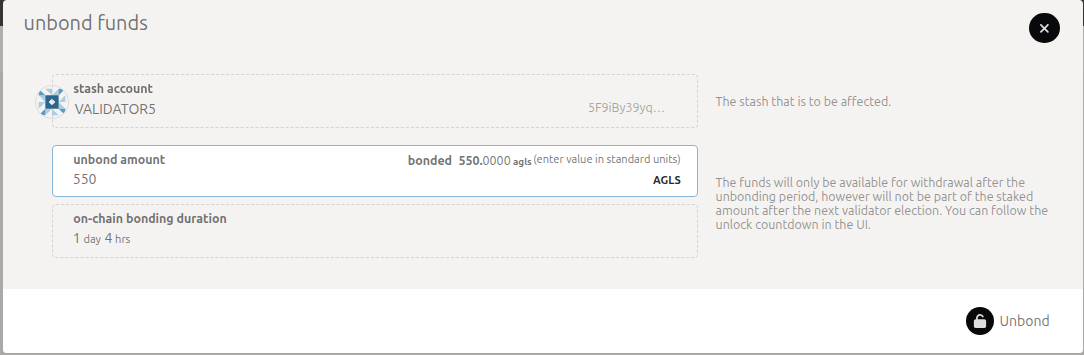
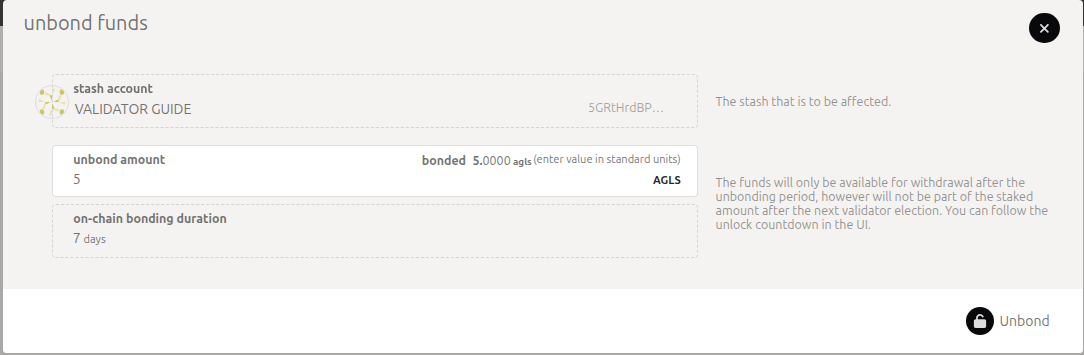
Update the validator guide for the spec-120 testnet
Use the v0.5.0 node image and the new genesis, follow the new chain's
timings (1-hour sessions, 6-hour eras, 7-day unbonding), and cover
rewards, nominations and slashing. Four screenshots retaken on the
new chain.

diff --git a/docs/nodes/run-a-validator-testnet.md b/docs/nodes/run-a-validator-testnet.md
@@ -13,15 +13,17 @@ How to join the Quip Network testnet as a validator, change your keys, and leave
 ## How validating works on Quip
 
 * Validators produce blocks and finalize them. Every validator key is a hybrid post-quantum key (a classical key plus FN-DSA-512), so the Polkadot.js portal ([portal.aglais.quip.network](https://portal.aglais.quip.network)) and the node have a few Quip-specific steps.
-* Joining is approved, not automatic: you bond AGLS (the testnet token), register your node's keys, and declare that you want to validate. The Quip Foundation then approves your account, usually within 24 hours, and makes a seat for you. You are elected at the next validator election and join the active set one session (10 minutes) later.
-* Sessions last 10 minutes and an era is 6 sessions (1 hour). After approval you are usually active within 10 to 20 minutes, or up to about 70 minutes if no new era is forced.
-* Unbonded AGLS stays locked for 28 eras (about 28 hours) before you can withdraw it.
-* The testnet pays no validator rewards yet, and nominating is switched off.
+* Joining is approved, not automatic: you bond AGLS (the testnet token), register your node's keys, and declare that you want to validate. The Quip Foundation then approves your account, usually within 24 hours, and makes a seat for you. You are elected at the next validator election and join the active set one session (1 hour) later.
+* Sessions last 1 hour and an era is 6 sessions (6 hours). After approval you are usually active within 1 to 2 hours, or up to about 7 hours if no new era is forced.
+* Unbonded AGLS stays locked for 28 eras (about 7 days) before you can withdraw it.
+* Active validators earn AGLS rewards every era, shared by era points, which they earn by producing blocks. Rewards are paid only when someone claims them (see [Claim your rewards](#claim-your-rewards)).
+* Other accounts can nominate you: they bond AGLS behind your stash, and their stake counts toward yours in the election.
+* Signing twice for the same slot or vote, which happens when two nodes run with the same keys, is reported automatically and can cost you part or all of your bond (a slash). The slash is applied 28 eras (about 7 days) after the offence.
 
 ## What you need
 
 * A Linux server that can run a Quip node around the clock, with port 30333/tcp open to inbound connections. Baseline: 4 CPU cores (x86_64), 8 GB of RAM, a 200 GB SSD and about 1 TB of network traffic a month. At today's activity a validator uses about 2 GB of RAM and well under one core, and its database grows by about 1.5 GB a day.
-* Docker, to run the Quip node software. The commands on this page use the image `registry.gitlab.com/quip.network/quip-validator/quip-network-node` with the tag `v0.4.0`.
+* Docker, to run the Quip node software. The commands on this page use the image `registry.gitlab.com/quip.network/quip-validator/quip-network-node` with the tag `v0.5.0`.
 * The testnet chain spec, [aglais-network.json](https://gitlab.com/quip.network/nodes.quip.network/-/raw/main/chain-specs/aglais-network.json). The Step 2 commands download it.
 * A shell with `curl` and `jq`.
 * A web browser for the Polkadot.js portal.
@@ -33,7 +35,7 @@ How to join the Quip Network testnet as a validator, change your keys, and leave
 
    ```sh
    docker run --rm --network none --log-driver none --entrypoint /usr/local/bin/quip-network-node \
-     registry.gitlab.com/quip.network/quip-validator/quip-network-node:v0.4.0 \
+     registry.gitlab.com/quip.network/quip-validator/quip-network-node:v0.5.0 \
      key generate --words 24 --output-type json | jq -r .secretPhrase
    ```
 
@@ -62,14 +64,14 @@ Leave **Settings → in-browser account creation** on "Do not allow local in-bro
    docker run -d --name quip-validator --restart unless-stopped --network host \
      -v "$HOME/quip-validator/data:/data" \
      -v "$HOME/quip-validator/chain-spec.json:/etc/quip/chain-spec.json:ro" \
-     registry.gitlab.com/quip.network/quip-validator/quip-network-node:v0.4.0 \
+     registry.gitlab.com/quip.network/quip-validator/quip-network-node:v0.5.0 \
      --chain=/etc/quip/chain-spec.json --base-path=/data --name=YOUR_NODE_NAME \
      --validator --unsafe-force-node-key-generation
    ```
 
    `--network host` keeps the node's RPC on the server's own 127.0.0.1, which Step 3 needs. Do not add `-p 9944:9944`, `--rpc-external` or `--unsafe-rpc-external`. The node keeps its database, network identity and session keys in `$HOME/quip-validator/data`, so keep that folder when you update or restart the container.
 2. Step 3 calls an unsafe RPC method, one that writes keys. The node accepts it only over 127.0.0.1, so send it only from the server itself, and never make your node's unsafe methods reachable from other machines. A public RPC that serves only safe methods is fine. If you run the [Run A Node](run-a-node-testnet.md) stack (node manager or docker compose), use [Session keys on the Run A Node stack](#session-keys-on-the-run-a-node-stack) instead of Step 3.2.
[2 lines of base64/hex data omitted]
 
    ```sh
    curl -s -H 'Content-Type: application/json' \
@@ -92,7 +94,7 @@ Leave **Settings → in-browser account creation** on "Do not allow local in-bro
 
    ```sh
    docker run --rm --network none --entrypoint /usr/local/bin/quip-network-node \
-     registry.gitlab.com/quip.network/quip-validator/quip-network-node:v0.4.0 \
+     registry.gitlab.com/quip.network/quip-validator/quip-network-node:v0.5.0 \
      key inspect --output-type json YOUR_ADDRESS | jq -r .accountId
    ```
 
@@ -145,10 +147,10 @@ The second node listens only on 127.0.0.1 and removes itself when stopped. `quip
 
 In the portal, open **Network → Staking → Accounts** and choose **+ Validator**.
 
-1. **Setup Validator 1/2**: pick your stash. The **value bonded** field starts with almost your whole balance: replace it with at least 5 and keep at least 1 AGLS unbonded, because later steps such as Stop, Unbond and Change session keys each cost a small fee that bonded funds cannot pay. Pick either **Stash account** option as the payment destination (there are no rewards yet). The **on-chain bonding duration** shows 1 day 4 hrs: that is how long funds stay locked after you unbond. Choose **next**.
+1. **Setup Validator 1/2**: pick your stash. The **value bonded** field starts with almost your whole balance: replace it with at least 5 and keep at least 1 AGLS unbonded, because later steps such as Stop, Unbond and Change session keys each cost a small fee that bonded funds cannot pay. For the payment destination, **Stash account (increase the amount at stake)** adds your rewards to your bond, and **Stash account (do not increase the amount at stake)** keeps them free to spend. The **on-chain bonding duration** shows 7 days: that is how long funds stay locked after you unbond. Choose **next**.
 
-   <figure><a href="../.gitbook/assets/run-a-validator-setup-bond.png"><img src="../.gitbook/assets/run-a-validator-setup-bond.png" alt="Setup Validator 1/2 with a stash selected, 500 AGLS in value bonded, an on-chain bonding duration of 1 day 4 hrs and Stash account as the payment destination" width="1084" height="438" loading="lazy" decoding="async"></a></figure>
-2. **Setup Validator 2/2**: paste the keys into **Keys from rotateKeysWithOwner** first, then the proof into **Session key ownership proof**. Changing the keys afterward empties the proof field, so paste the proof last. Leave **allows new nominations** as it is: nominating is switched off. Set your commission, then choose **Bond & Validate** and sign with your stash.
+   <figure><a href="../.gitbook/assets/run-a-validator-setup-bond.png"><img src="../.gitbook/assets/run-a-validator-setup-bond.png" alt="Setup Validator 1/2 with a stash selected, 5 AGLS in value bonded, an on-chain bonding duration of 7 days and Stash account as the payment destination" width="1084" height="438" loading="lazy" decoding="async"></a></figure>
+2. **Setup Validator 2/2**: paste the keys into **Keys from rotateKeysWithOwner** first, then the proof into **Session key ownership proof**. Changing the keys afterward empties the proof field, so paste the proof last. **Allows new nominations** lets other accounts back you with their stake; leave it on unless you want to refuse new nominators. Set your commission, the share of rewards you keep before the rest is split with your nominators, then choose **Bond & Validate** and sign with your stash.
 
    <figure><a href="../.gitbook/assets/run-a-validator-setup-keys-and-proof.png"><img src="../.gitbook/assets/run-a-validator-setup-keys-and-proof.png" alt="Setup Validator 2/2 with the keys in Keys from rotateKeysWithOwner, the proof in Session key ownership proof, the commission and allows new nominations fields, and the Bond and Validate button" width="1084" height="434" loading="lazy" decoding="async"></a></figure>
 
@@ -177,7 +179,16 @@ After the vote, you are included in the next election.
 * **Network → Explorer** shows blocks authored by your address.
 * Your node's log shows lines like "Prepared block for proposing" and "Pre-sealed block". Such a line means your node produced a block; Explorer shows whether it stayed in the chain.
 
-You are usually active 10 to 20 minutes after the Foundation's vote. Keep your node online (see [If your node goes offline](#if-your-node-goes-offline)).
+You are usually active 1 to 2 hours after the Foundation's vote. Keep your node online (see [If your node goes offline](#if-your-node-goes-offline)).
+
+## Claim your rewards
+
+Each era's rewards can be claimed once the era has ended, and for 84 eras (21 days) after that. Older rewards can no longer be claimed.
+
+1. Open **Network → Staking → Payouts**. With your stash imported, it lists the eras with unclaimed rewards for it.
+2. Choose **Payout all** and sign. Any account can send the claim and pay its small fee, and one claim pays you and your nominators.
+
+The rewards go to the payment destination you chose in Step 4.
 
 ## Change your session keys or move to a new server
 
@@ -186,8 +197,8 @@ You are usually active 10 to 20 minutes after the Foundation's vote. Keep your n
 3. On **Network → Staking → Accounts**, open your stash's menu (⋮) and choose **Change session keys**. In the **Set Session Key** dialog, paste the new keys first, then the proof, choose **Set Session Key** and sign with your stash.
 
    <figure><a href="../.gitbook/assets/run-a-validator-set-session-key.png"><img src="../.gitbook/assets/run-a-validator-set-session-key.png" alt="The Set Session Key dialog for a stash, with the new keys in Keys from rotateKeysWithOwner, the proof in Session key ownership proof and the Set Session Key button" width="1084" height="361" loading="lazy" decoding="async"></a></figure>
-4. Wait for two session changes (10 to 20 minutes). The new keys are queued at the first and take over at the second. The new node's log then shows "Pre-sealed block" lines, and the old node stops producing blocks.
-5. Stop the old node. Never run two nodes with the same keys.
+4. Wait for two session changes (1 to 2 hours). The new keys are queued at the first and take over at the second. The new node's log then shows "Pre-sealed block" lines, and the old node stops producing blocks.
+5. Stop the old node. Never run two nodes with the same keys: if both sign, your bond can be slashed.
 
 The old node's last block comes just before the session change, and the new node's first block just after it.
 
@@ -203,43 +214,41 @@ The old node's last block comes just before the session change, and the new node
 
 To restart your server, update its operating system or take the node down for any other planned work, leave the active set first. Downtime after you have left does not count as going offline.
 
-1. On **Network → Staking → Accounts**, choose **Stop** on your stash. You leave the active set when the next era starts, within about 70 minutes. Keep your node running until **Staking → Overview** no longer lists you as active.
+1. On **Network → Staking → Accounts**, choose **Stop** on your stash. You leave the active set when the next era starts, within about 7 hours. Keep your node running until **Staking → Overview** no longer lists you as active.
 2. Do the maintenance.
 3. Start the node and wait until it is fully synced (see [Step 2](#step-2-run-your-validator-node)).
-4. On **Network → Staking → Accounts**, choose **Validate** on your stash, set your commission and sign. Your approval and your bond stay in place, so you are a candidate at the next election and active again within about 70 minutes.
+4. On **Network → Staking → Accounts**, choose **Validate** on your stash, set your commission and sign. Your approval and your bond stay in place, so you are a candidate at the next election and active again within about 7 hours.
 
 To move to a new server without a break, see [Change your session keys or move to a new server](#change-your-session-keys-or-move-to-a-new-server) instead.
 
 ## Leaving
 
-1. On **Network → Staking → Accounts**, choose **Stop** on your stash. You leave the active set when the next era starts. If you choose Stop during an era's last 10 minutes, the next era's validators are already chosen, so you stay one more era (up to about 70 minutes). Keep your node running until **Staking → Overview** no longer lists you as active.
+1. On **Network → Staking → Accounts**, choose **Stop** on your stash. You leave the active set when the next era starts. If you choose Stop during an era's last hour, the next era's validators are already chosen, so you stay one more era (up to about 7 hours). Keep your node running until **Staking → Overview** no longer lists you as active.
 
    <figure><a href="../.gitbook/assets/run-a-validator-stop.png"><img src="../.gitbook/assets/run-a-validator-stop.png" alt="A validating stash row on Staking Accounts with its session keys, commission and the Stop button" width="1090" height="107" loading="lazy" decoding="async"></a></figure>
 2. From your stash's menu (⋮) choose **Unbond funds** and enter the amount. Stop first: while you are still validating, an unbond must leave at least 5 AGLS bonded.
 
-   <figure><a href="../.gitbook/assets/run-a-validator-unbond.png"><img src="../.gitbook/assets/run-a-validator-unbond.png" alt="The Unbond funds dialog for a stash, unbonding the whole bond, with an on-chain bonding duration of 1 day 4 hrs and the Unbond button" width="1084" height="355" loading="lazy" decoding="async"></a></figure>
-3. The funds unlock after 28 eras (about 28 hours). Until then the stash's row shows a clock icon next to the amount (hover it for the time left), and **Withdraw unbonded funds** stays grayed out.
-4. From the menu choose **Withdraw unbonded funds**. It starts working about 10 minutes before the countdown ends, because the chain counts the next era as soon as it is planned.
+   <figure><a href="../.gitbook/assets/run-a-validator-unbond.png"><img src="../.gitbook/assets/run-a-validator-unbond.png" alt="The Unbond funds dialog for a stash, unbonding the whole bond, with an on-chain bonding duration of 7 days and the Unbond button" width="1084" height="355" loading="lazy" decoding="async"></a></figure>
+3. The funds unlock after 28 eras (about 7 days). Until then the stash's row shows a clock icon next to the amount (hover it for the time left), and **Withdraw unbonded funds** stays grayed out.
+4. From the menu choose **Withdraw unbonded funds**. It starts working about an hour before the countdown ends, because the chain counts the next era as soon as it is planned.
 
    <figure><a href="../.gitbook/assets/run-a-validator-withdraw-menu.png"><img src="../.gitbook/assets/run-a-validator-withdraw-menu.png" alt="The stash menu with Withdraw unbonded funds available, below Bond more funds and Rebond funds" width="210" height="280" loading="lazy" decoding="async"></a></figure>
 
 * Changed your mind while the countdown is still running? **Rebond funds** moves unlocking funds back into your stake. Its dialog is titled "Bond more funds"; the button says **Rebond**. Once the countdown has ended, withdraw first, then bond again with **Bond more funds** (or **+ Stash** if you had unbonded everything). If you chose **Stop**, choose **Validate** again.
 
-  <figure><a href="../.gitbook/assets/run-a-validator-unlocking-row.png"><img src="../.gitbook/assets/run-a-validator-unlocking-row.png" alt="A validating stash row with the Stop button, a clock icon next to the 100 AGLS being unbonded, and its tooltip: Unbonding 100.0000 AGLS, 17,370 blocks, 1 day 4 hrs" width="1090" height="82" loading="lazy" decoding="async"></a></figure>
+  <figure><a href="../.gitbook/assets/run-a-validator-unlocking-row.png"><img src="../.gitbook/assets/run-a-validator-unlocking-row.png" alt="A stash row after Stop, with a clock icon next to the 5 AGLS being unbonded and its tooltip: Unbonding 5.0000 AGLS, 100,536 blocks, 6 days 23 hrs" width="1077" height="94" loading="lazy" decoding="async"></a></figure>
 
-  <figure><a href="../.gitbook/assets/run-a-validator-rebond.png"><img src="../.gitbook/assets/run-a-validator-rebond.png" alt="The Rebond dialog, titled bond more funds, with 100 AGLS in rebonded amount and the Rebond button" width="1084" height="289" loading="lazy" decoding="async"></a></figure>
+  <figure><a href="../.gitbook/assets/run-a-validator-rebond.png"><img src="../.gitbook/assets/run-a-validator-rebond.png" alt="The Rebond dialog, titled bond more funds, with 5 AGLS in rebonded amount and the Rebond button" width="1084" height="292" loading="lazy" decoding="async"></a></figure>
 * Add to your stake at any time with **Bond more funds**.
 
   <figure><a href="../.gitbook/assets/run-a-validator-bond-more.png"><img src="../.gitbook/assets/run-a-validator-bond-more.png" alt="The Bond more funds dialog with 50 AGLS in additional funds to bond and the Bond more button" width="1084" height="292" loading="lazy" decoding="async"></a></figure>
 * Your Foundation approval stays after you leave. If you validate again later, you are a candidate at the next election. Seats go to the highest stakes: you rejoin if a seat is free, or if your stake is higher than the lowest active validator's, who then drops out.
-* If the Foundation removes your approval, you leave the active set 10 to 20 minutes after its vote. Keep your node running until **Staking → Overview** no longer lists you as active. Your bond stays until you unbond it.
+* If the Foundation removes your approval, you leave the active set 1 to 2 hours after its vote. Keep your node running until **Staking → Overview** no longer lists you as active. Your bond stays until you unbond it.
 
 ## Known portal limitations
 
 * **Inject session keys (advanced)** does not work with Quip keys, and its "relay chain" warning does not apply here.
 * Imported accounts are lost when you reload or close the page. The **Import** and **Export** buttons do not take Quip phrases.
-* **+ Nominator** fails, because nominating is switched off.
-* **Payouts** is empty, because there are no validator rewards yet.
 * On first load, the Staking summary can show wrong numbers such as "validators N / 0" or an era over 100%. Reload the page, then import your phrase again.
 * A validator whose commission is exactly 0 shows **Validate** instead of **Stop**. The portal never sends exactly 0 (it sends 1 per billion when you enter 0), but accounts set up outside the portal can have it. Choose **Validate** to set a commission first; **Stop** then appears.
 * The testnet has no separate controller account: your stash signs every step, and **Change controller account** stays grayed out.
